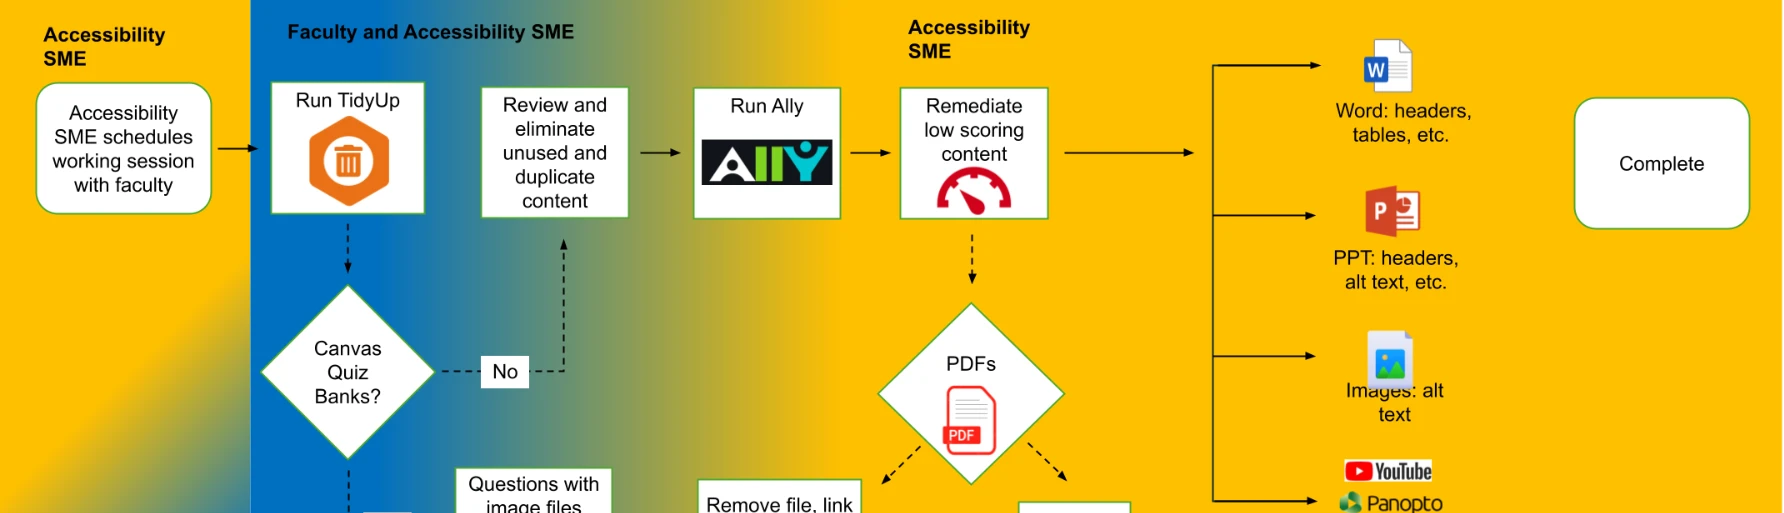
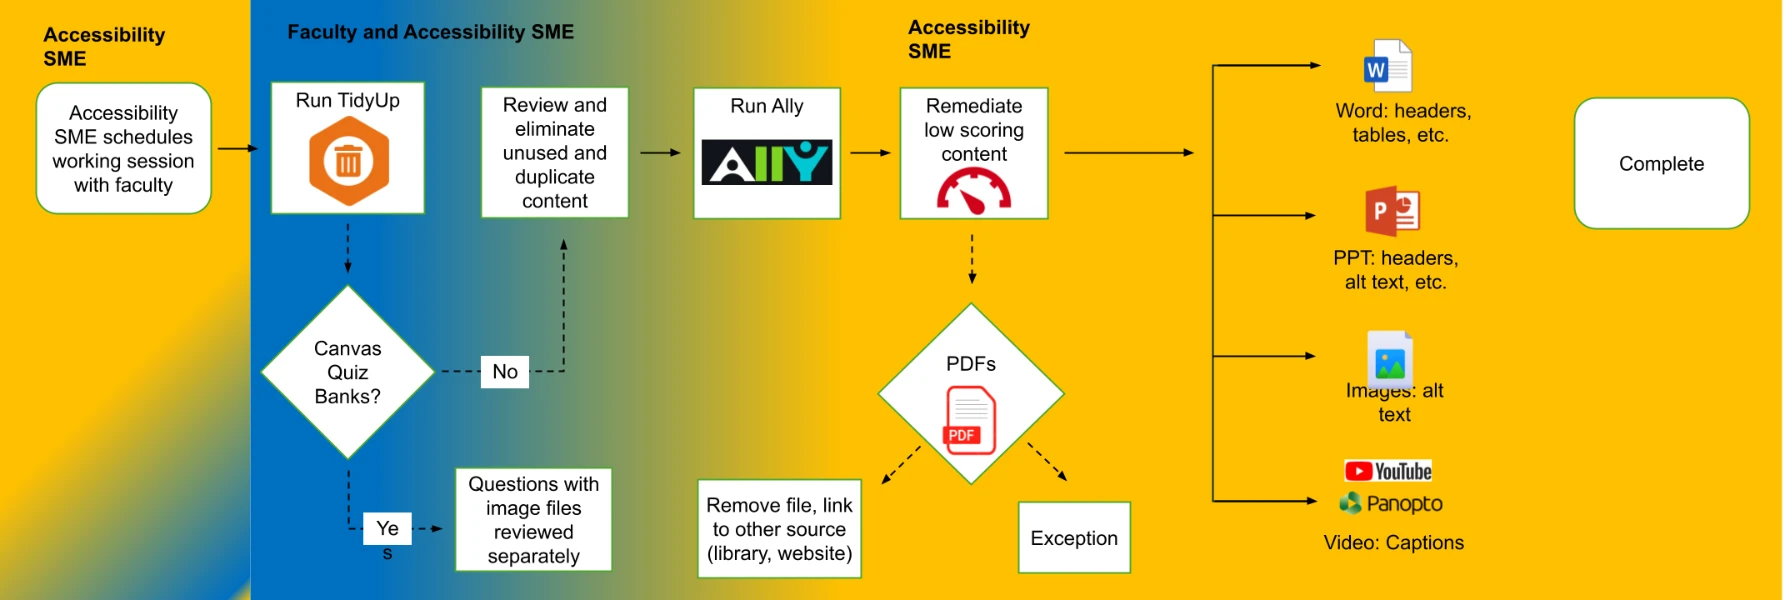
Show the full accessibility flowchart (bottom row was cropped)
Claude-Session: https://claude.ai/code/session_017DNu9hqPkbVeQVtQTwJQ9v

diff --git a/docs/projects/accessibility.html b/docs/projects/accessibility.html
@@ -111,7 +111,7 @@
         <p>The review process used with faculty on each course. A text version follows the image.</p>
       </div>
       <figure class="artifact-figure">
-        <img src="../assets/accessibility-process-flow.png" width="1784" height="513" loading="lazy" alt="Flowchart of the accessibility review process for School of Nursing Canvas courses. The full text version is below the image.">
+        <img src="../assets/accessibility-process-flow.png" width="1784" height="600" loading="lazy" alt="Flowchart of the accessibility review process for School of Nursing Canvas courses. The full text version is below the image.">
         <figcaption>Accessibility review process for School of Nursing Canvas courses.</figcaption>
       </figure>
       <details class="text-version" open>
